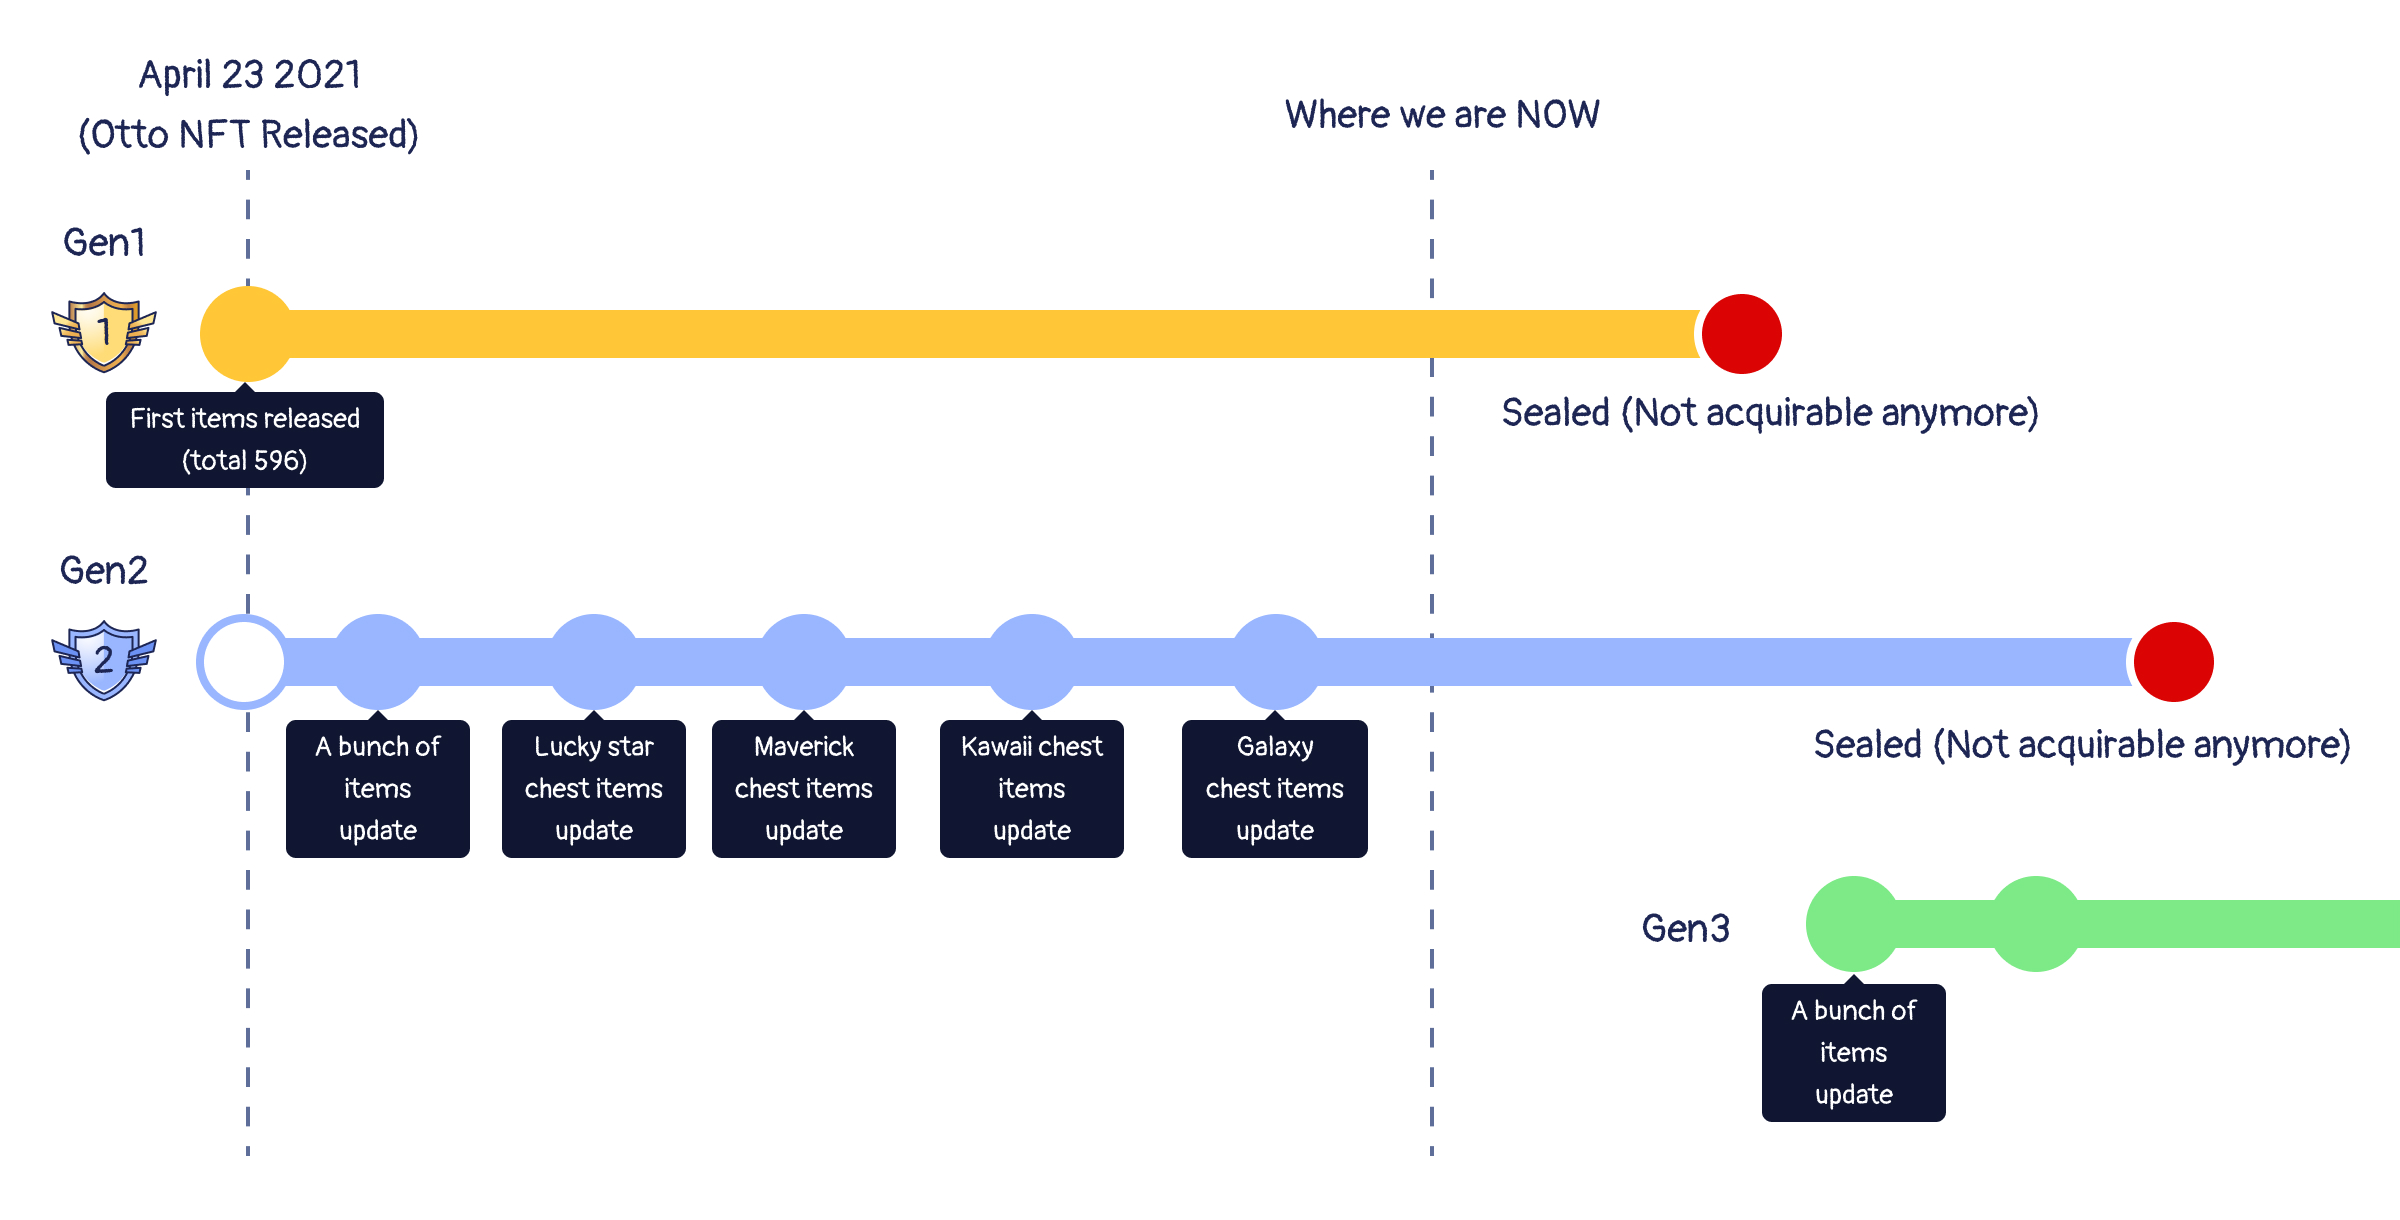
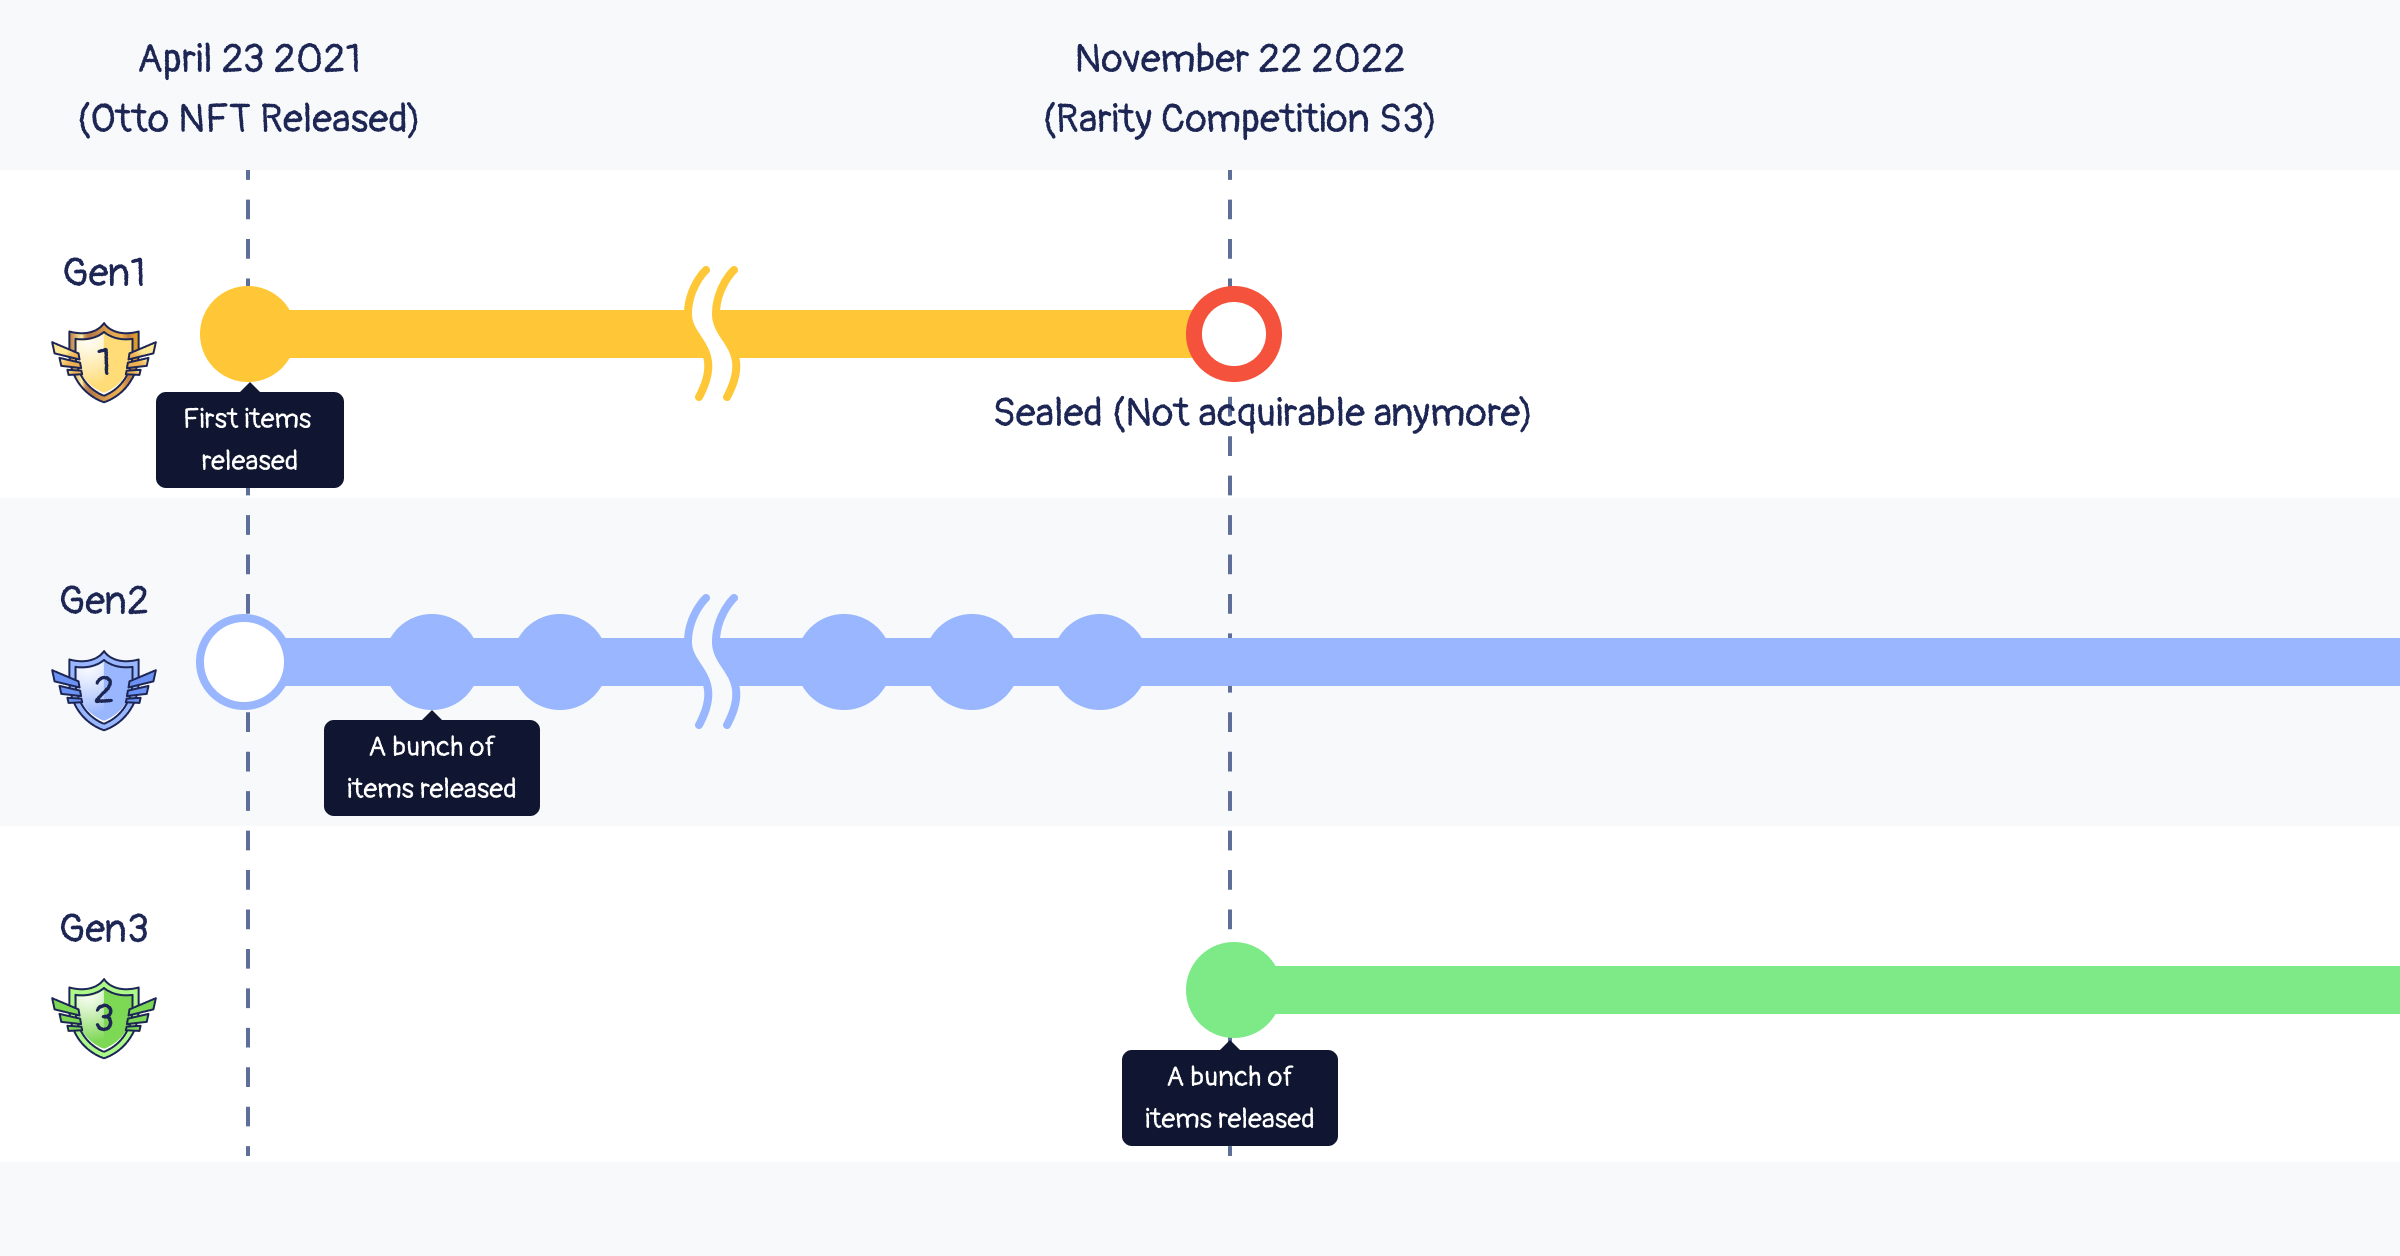
Gen3

diff --git a/docs/ottopia/gameplay/traits.md b/docs/ottopia/gameplay/traits.md
@@ -50,23 +50,36 @@ Although your Otto will be minted with a specific set of equipment (some will ha
 
 Unlike native traits, wearable items can be categorized by collection. In the Otter Kingdom, two collections of wearable items have been released so far: **Gen1** and **Gen2**.
 
-One of the most notable features of Item Collections is that after a period of time, the collection will be sealed. This means that after the sealing, you will not be able to acquire the items of this collection through Portals, Treasure Chests, or Adventures. The Otter DAO will determine the release and seal time for each item collection.
+One of the most notable features of Item Collections is that after a period of time, the collection will be enshrined. Once the enshrining takes place, these items will not be able to be found or freshly minted from Shell Chests any longer. (The items coming along with the Otto minted from Portal are not be affected, though) The Otter DAO will determine the release and enhrining time for each item collection.
 
 ![Collection](img/collection.jpg)
 
 ### Gen1
 
 Gen1 was released on 23rd April 2021 along with the first generation Otto Portals. There are currently 596 items in Gen1 with the following breakdown:
+
 - Background: 76
 - Headwear: 222
 - Object Holding: 110
 - Special Accessories: 62
 - Clothes: 126
 
+If you've been following OtterClam for a while now you know that we're constantly releasing new items for our Otto NFTs. Now that we've reached a large number of items available it's time to bid adieu to the 1st Generation items.
+
+After **28th November, 2022 8:00 AM UTC**, all Gen1 items will be enshrined.
+
 ### Gen2
 
-Since 23rd April 2021, we have added many items which will be part of Gen2, and will continue to add additional items over time. Once the number of items in this collection reaches about 600, we will stop adding items to Gen2 and start Gen3. Gen2 will be sealed once Gen3 is underway. 
+All added items during 23rd April 2021 8:00 AM UTC ~ 28th November, 2022 8:00 AM UTC belong to Gen2.
 
-Sealed collections may be given rarity and/or attribute boosts after a certain period of time.
+### Gen3
+
+The moment the Gen1 items get enshrined from **28th November, 2022 8:00 AM UTC**, all new items added afterwards will be part of Gen3. 
+Once the number of items in this collection reaches about 600, we will stop adding items to Gen3 and start Gen4.
+
+
+Make sure to join our weekly games/events for Shell Chest prizes, but you can always crack open some chests from the Ottopia store too!
+
+Enshrined collections may be given rarity and/or attribute boosts after a certain period of time.
 
 ![Collection Timeline](img/collection_timeline.jpg)
